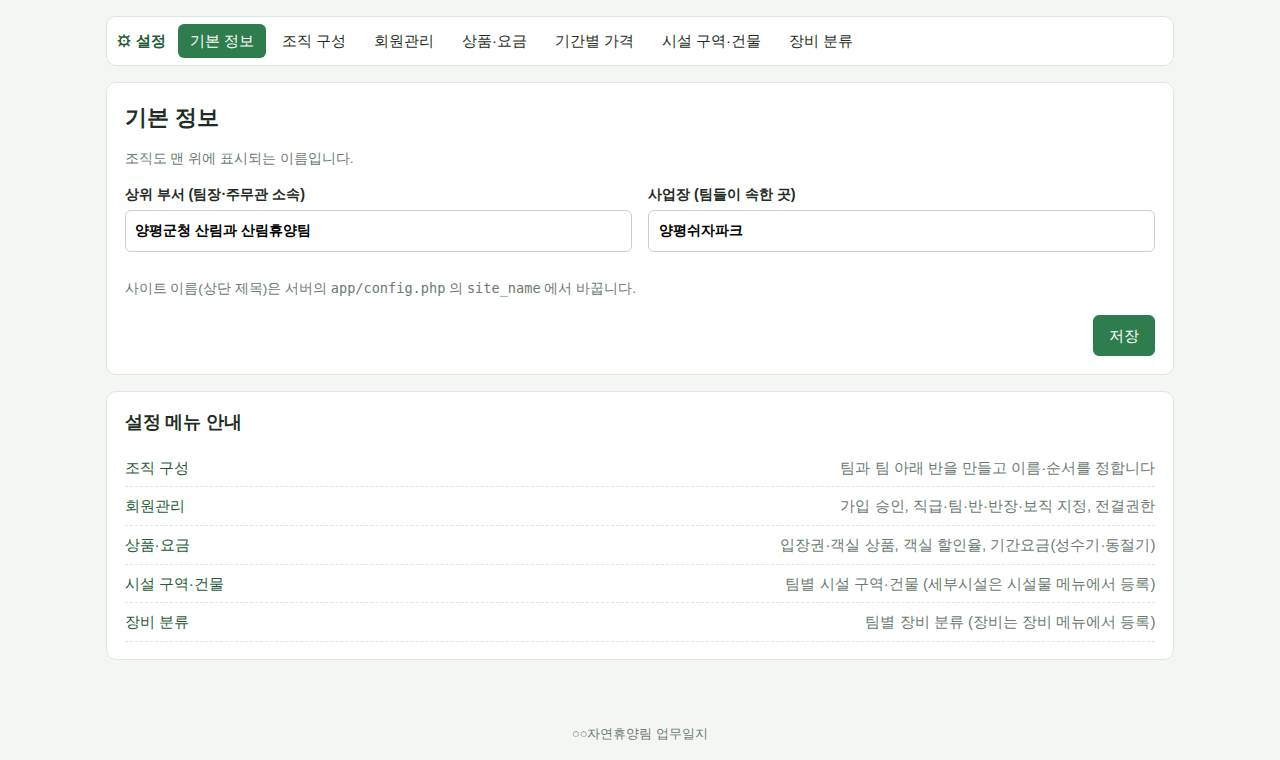
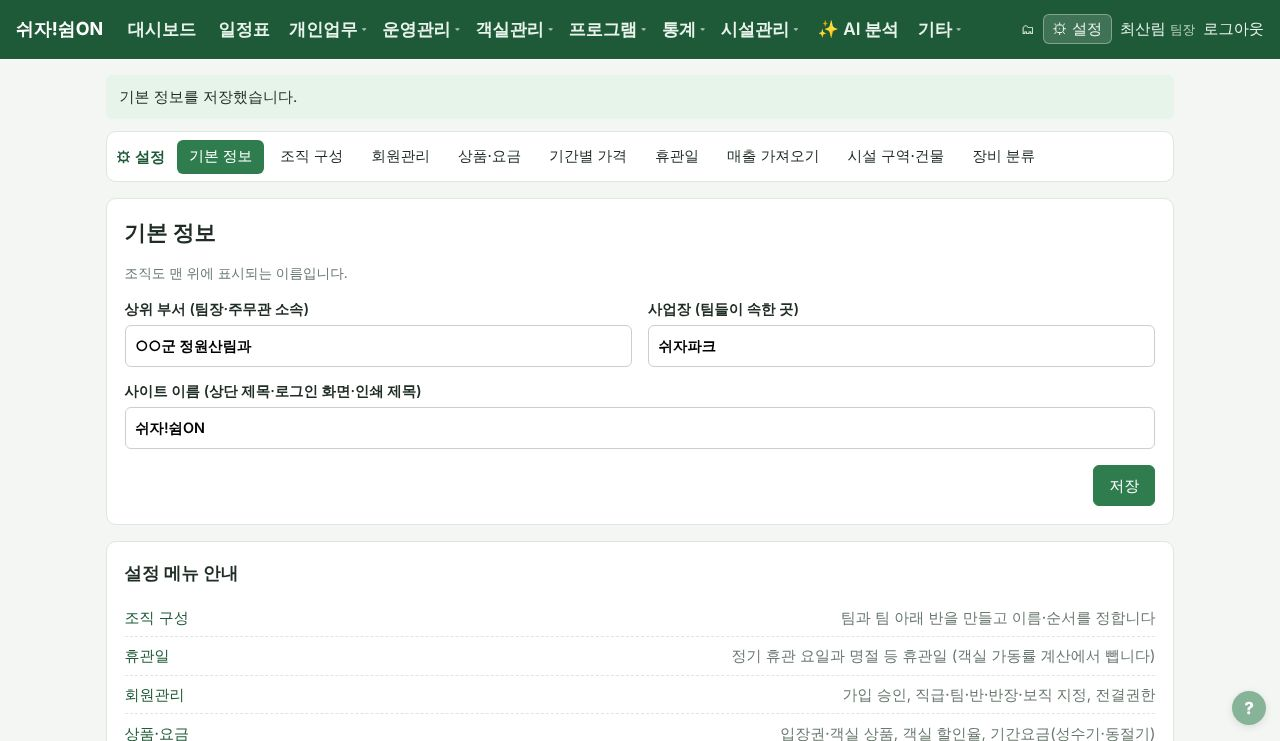
사이트 이름 「쉬자!쉼ON」, 설정 › 기본 정보에서 이름 바꾸기 [데모배포]
- settings.site_name 이 있으면 config 의 site_name 대신 사용 (체험판은 config.demo.php 이름만)
- DB_VERSION 54: site_name '쉬자!쉼ON' 기본 등록 (이미 있으면 그대로)
- 체험판 이름, 설명서·계획 문서 이름 변경, 도움말·업데이트·README·캡처

Claude-Session: https://claude.ai/code/session_01VfXskRVsxbLKKHr8d49Cfn

diff --git a/settings.php b/settings.php
@@ -25,6 +25,7 @@ if (is_post()) {
     if ($target === 'general') {
         setting_set('org_top_name', mb_substr(post('org_top_name'), 0, 100));
         setting_set('org_park_name', mb_substr(post('org_park_name'), 0, 100));
+        if (!is_demo()) setting_set('site_name', mb_substr(post('site_name'), 0, 60));
         flash('기본 정보를 저장했습니다.', 'success');
         redirect('settings.php?tab=general');
     }
@@ -111,7 +112,11 @@ if ($tab === 'general'): ?>
     <label>상위 부서 (팀장·주무관 소속)<input name="org_top_name" value="<?= e(setting('org_top_name', '')) ?>" placeholder="예: 양평군청 산림과 산림휴양팀"></label>
     <label>사업장 (팀들이 속한 곳)<input name="org_park_name" value="<?= e(setting('org_park_name', '')) ?>" placeholder="예: 양평쉬자파크"></label>
   </div>
-  <p class="muted small">사이트 이름(상단 제목)은 서버의 <code>app/config.php</code> 의 <code>site_name</code> 에서 바꿉니다.</p>
+  <?php if (is_demo()): ?>
+  <p class="muted small">사이트 이름: <b><?= e((string) config('site_name', '')) ?></b> (체험판은 바꿀 수 없습니다)</p>
+  <?php else: ?>
+  <label>사이트 이름 (상단 제목·로그인 화면·인쇄 제목)<input name="site_name" value="<?= e(setting('site_name', '')) ?>" maxlength="60" placeholder="비우면 서버 설정 파일의 이름: <?= e((string) config('site_name_file', '')) ?>"></label>
+  <?php endif ?>
   <div class="actions"><button class="btn primary">저장</button></div>
 </form>
 

diff --git a/app/help.php b/app/help.php
@@ -466,7 +466,7 @@ HTML],
 HTML],
             ['id' => 'set_general', 'title' => '기본 정보 · 조직 구성 · 시설 구역 · 장비 분류', 'keys' => ['settings', 'settings_general', 'settings_org', 'settings_facility', 'settings_equipment'], 'img' => ['set_general.jpg' => '기본 정보', 'set_org.jpg' => '조직 구성 — 팀별 시설점검·시설물 사용'], 'body' => <<<'HTML'
 <ul>
-  <li><b>기본 정보</b>: 조직도의 상위 부서·사업장 이름. <b>조직 구성</b>: 팀·반 추가·이름·순서.</li>
+  <li><b>기본 정보</b>: 조직도의 상위 부서·사업장 이름, <b>사이트 이름</b>(상단 제목·로그인 화면·인쇄 제목, 비우면 서버 설정 파일의 이름). <b>조직 구성</b>: 팀·반 추가·이름·순서.</li>
   <li>조직 구성의 팀마다 <b>시설점검·시설물</b> 체크: 끄면 그 팀이 시설관리 › 시설점검·시설물과 시설 구역·건물에서 빠집니다 (시설을 관리하지 않고 프로그램만 하는 팀 등).
     이미 작성한 점검일지와 등록한 시설은 지워지지 않고, 다시 켜면 그대로 보입니다. 새 팀은 켜진 상태로 만들어집니다. 장비 메뉴에는 영향이 없습니다.</li>
   <li><b>시설 구역·건물</b>, <b>장비 분류</b>: 팀별 분류 (세부시설·장비 등록은 각 메뉴에서 주무관 이상).</li>

diff --git a/app/changelog.php b/app/changelog.php
@@ -7,6 +7,10 @@ defined('APP_ROOT') || exit;
  *   ['date' => 'YYYY-MM-DD', 'title' => '한 줄 요약', 'items' => ['자세한 내용', ...], 'menu' => '관련 메뉴(선택)']
  */
 const CHANGELOG = [
+    ['date' => '2026-10-23', 'title' => '사이트 이름 「쉬자!쉼ON」, 설정에서 이름 바꾸기', 'menu' => '설정', 'items' => [
+        "사이트 이름을 '쉬자!쉼ON'으로 바꿨습니다 (상단 제목·로그인 화면·인쇄 제목·청소관리 앱 이름).",
+        "앞으로 이름은 설정 › 기본 정보의 '사이트 이름'에서 바꿉니다. 비우면 예전처럼 서버 설정 파일의 이름을 씁니다.",
+    ]],
     ['date' => '2026-10-22', 'title' => '🔁 AI 분석: 지난 예측 되돌아보기 (예측 vs 실제)', 'menu' => 'AI 분석', 'items' => [
         "AI 분석 화면의 '🔁 지난 예측 되돌아보기'에서 날짜(4주 전·8주 전·작년 이맘때·직접 고르기)를 고르면, 그날까지의 기록만 보고 같은 규칙으로 '그다음 4주'를 예측했을 때 실제로 맞았는지 보여 줍니다.",
         '결과는 ✅ 실제로 일어남 / 🟡 비슷한 일(같은 객실 다른 민원, 4주 뒤 석 달 안 고장 등) / ⬜ 안 일어남 으로 표시하고, 그 4주에 생겼지만 예측에 없던 일도 따로 보여 줍니다.',

diff --git a/app/migrate.php b/app/migrate.php
@@ -6,7 +6,7 @@ defined('APP_ROOT') || exit;
  * 새 버전 파일을 FTP로 덮어쓰기만 하면, 첫 접속 때 부족한 테이블/컬럼을 만든다.
  * (기존 자료는 그대로 유지)
  */
-const DB_VERSION = 53;
+const DB_VERSION = 54;
 
 function db_version(): int
 {
@@ -435,6 +435,11 @@ function db_migrate(): void
     }
 
     // 53) v52 → v53: AI 분석 결과 ai_insights (1) 단계에서 생성) — AI 분석 메뉴, 예측을 저장해 두고 실제와 비교
+
+    // 54) v53 → v54: 사이트 이름을 설정(settings.site_name)에서 바꿀 수 있게 — 새 이름 '쉬자!쉼ON' (이미 정해 둔 이름이 있으면 그대로)
+    if (db_version() < 54) {
+        $pdo->exec("INSERT IGNORE INTO settings (name, value) VALUES ('site_name', '쉬자!쉼ON')");
+    }
 
     $pdo->prepare("INSERT INTO settings (name, value) VALUES ('db_version', ?) ON DUPLICATE KEY UPDATE value = VALUES(value)")
         ->execute([(string) DB_VERSION]);

diff --git a/app/bootstrap.php b/app/bootstrap.php
@@ -137,6 +137,11 @@ if ($dbOk && db_version() < DB_VERSION) {
     }
 }
 if ($dbOk) demo_maybe_reset(); // 체험용 데모 사이트: 날짜가 바뀌면 가상 자료를 새로 만든다 (운영 사이트는 아무것도 안 함)
+// 사이트 이름: 설정 › 기본 정보에서 정한 이름이 있으면 그것을 쓴다 (없으면 config.php 의 site_name)
+//  체험판은 누구나 관리자로 들어오므로 설정 이름을 쓰지 않고 config.demo.php 의 이름만 쓴다
+$GLOBALS['CONFIG']['site_name_file'] = config('site_name', '');
+if ($dbOk && !is_demo() && ($siteName = trim((string) setting('site_name', ''))) !== '') $GLOBALS['CONFIG']['site_name'] = $siteName;
+unset($siteName);
 unset($dbOk);
 
 $https = ($_SERVER['HTTPS'] ?? '') === 'on' || ($_SERVER['HTTP_X_FORWARDED_PROTO'] ?? '') === 'https';

diff --git a/app/config.demo.php b/app/config.demo.php
@@ -10,6 +10,6 @@ if (!is_file($main)) return null;
 return [
     'demo'      => true,
     'base_url'  => '/demo',
-    'site_name' => '쉬자ON',
+    'site_name' => '쉬자!쉼ON',
     'debug'     => false,
 ] + (require $main);

diff --git a/dev/contest-data-analysis.md b/dev/contest-data-analysis.md
@@ -65,11 +65,11 @@
 - 9개월 단톡방 3,751건 중 시설 보고 약 345건 → 시설 대장에 남은 2026년 이력 1건
 - 민원 대장 처리일자 누락 72%, 전화 문의 분류 누락 61%
 - 같은 설비 반복 고장: 온수보일러 14건/8객실, 1호 관정 5회, 순환펌프 3회 연쇄
-- 쉬자ON 이후: 민원은 업무일지에서 3단계 분류로 바로 입력(분류·처리상태 필수), 설비 이력은 장비 화면에 한 줄씩 → 위 숫자를 **자동으로** 집계
+- 쉬자!쉼ON 이후: 민원은 업무일지에서 3단계 분류로 바로 입력(분류·처리상태 필수), 설비 이력은 장비 화면에 한 줄씩 → 위 숫자를 **자동으로** 집계
 
 ## 5. 적중 검증 — 실제 기록으로 '그때 예측했다면?' (2026-10-22)
 방법: 2024.3~2026.10 실제 기록(보수 대장·시설물 대장·민원 대장·만족도 조사·단톡방)에서 문제 사건 335건(같은 날 같은 분류는 1건)을 뽑아,
-기준일을 1~2주씩 옮기며 **그날 이전 기록만** 보고 쉬자ON 규칙(작년 같은 시기 ±2주에 있었음 / 최근 60일 2회 이상 / 같은 곳 1년 2회 이상)으로 예측한 뒤 실제와 비교.
+기준일을 1~2주씩 옮기며 **그날 이전 기록만** 보고 쉬자!쉼ON 규칙(작년 같은 시기 ±2주에 있었음 / 최근 60일 2회 이상 / 같은 곳 1년 2회 이상)으로 예측한 뒤 실제와 비교.
 (로컬에서만 계산, 원본은 저장소에 없음. 분류 11가지: 벌·해충, 에어컨, 온수보일러·히터봉, 난방, 관정·급수, 배수·오수, 제설·폭설, 전기·차단기, 통신·TV, 데크·구조물 파손, 청결)
 
 | 시험 | 예측 적중 | 우연히 맞을 확률(기준) | 해석 |
@@ -89,5 +89,5 @@
 **결론 (설명서에 쓸 말)**
 - 흩어진 기록으로도 '같은 설비가 또 고장 난다'는 미리 알 수 있었다 (위 사례).
 - 하지만 기록이 단톡방·엑셀·종이에 나뉘고 장소 이름이 제각각이라, 종류만 맞히는 예측은 우연과 큰 차이가 없었다 → **예측의 정확도는 AI보다 '기록을 한곳에, 같은 이름으로' 남기는 데 달려 있다.**
-- 쉬자ON은 민원(3단계 분류·장소 선택)·설비 이력(장비별)·시설점검(시설 선택)을 같은 이름으로 쌓으므로 쓸수록 예측이 정확해진다.
+- 쉬자!쉼ON은 민원(3단계 분류·장소 선택)·설비 이력(장비별)·시설점검(시설 선택)을 같은 이름으로 쌓으므로 쓸수록 예측이 정확해진다.
   적중률 숫자를 앞세우기보다 '대표 사례 + 기록이 쌓이면 좋아지는 구조'로 설명하는 것이 정직하다.

diff --git a/dev/contest-plan.md b/dev/contest-plan.md
@@ -13,7 +13,7 @@
 - 강점: 2026-09-22 첫 커밋 이후 약 한 달간 AI(Claude)와 대화로 만든 실사용 시스템 (커밋 140여 회) — 바이브 코딩 사례 그 자체
 
 ## 1. 이름 (제안 — 확인 필요)
-**「쉬자ON」 — 휴양시설 현장업무 원스톱 플랫폼**
+**「쉬자!쉼ON」 — 휴양시설 현장업무 원스톱 플랫폼**
 - 한 줄: *종이·엑셀·단톡방에 흩어진 현장업무를 한곳에 기록하고, 쌓인 데이터로 AI가 민원·고장을 미리 알려준다.*
 - 다른 후보: 「숲 운영노트 AI」, 「쉬자파크 스마트운영」
 
@@ -95,7 +95,7 @@
 | 10/29 | 최종 점검 → 제출 (30일 예비) |
 
 ## 9. 확정 사항 (2026-10-22 사용자 답변)
-1. 이름: **「쉬자ON」**
+1. 이름: **「쉬자!쉼ON」**
 2. 데모 사이트: 같은 호스팅의 **`/demo` 폴더** (별도 DB 필요 — 호스팅에서 DB 추가 가능 여부는 사용자 확인 중)
 3. Claude API 키: **개인 발급** (서버 config/설정에만 넣음, 채팅·코드 금지)
 4. 과거 민원·수리 기록: 사용자가 **따로 넘겨줄 예정** (자세한 자료는 아님)
@@ -121,7 +121,7 @@
 ## 11. 다음 버전(V2) 방향 — 스마트 체크인 (사용자 제안 2026-10-22, 검토 의견 포함)
 > **개념 기획만 한다. 이번에는 개발하지 않는다.** 과제설명서의 '향후 계획'(9장)에 넣을 내용이다.
 
-목표: 입실부터 퇴실까지 **전화·대면 없이** 처리하고, 그 과정에서 생기는 기록(입퇴실·요청·고장·만족도)이 쉬자ON 에 자동으로 쌓이게.
+목표: 입실부터 퇴실까지 **전화·대면 없이** 처리하고, 그 과정에서 생기는 기록(입퇴실·요청·고장·만족도)이 쉬자!쉼ON 에 자동으로 쌓이게.
 
 | 사용자 제안 | 검토 | 다듬은 방향 |
 |---|---|---|

diff --git a/dev/demo-setup.md b/dev/demo-setup.md
@@ -5,7 +5,7 @@
 
 ## 어떻게 동작하나
 - 체험판 폴더에는 `app/config.php` 가 없고, `app/config.demo.php` 가 운영 사이트의 `/www/app/config.php` 를 읽어
-  DB 접속 정보만 빌려 쓴다 (`'demo' => true`, `base_url` `/demo`, 사이트 이름 「쉬자ON」).
+  DB 접속 정보만 빌려 쓴다 (`'demo' => true`, `base_url` `/demo`, 사이트 이름 「쉬자!쉼ON」).
 - 같은 DB 안에서 표 이름 앞에 `demo_` 가 붙은 별도 표(`demo_users`, `demo_journals` …)만 쓴다 (`app/demo_db.php`).
   - 모든 SQL 이 표 이름을 `demo_` 표로 바꾼 뒤 실행된다. 운영 표 이름이 남은 채로 표를 만들거나 지우려 하면 실행하지 않는다.
   - 로컬 검증: 운영·체험판을 같은 DB 로 띄워 체험판 전체 화면 열기·저장·초기화 후 운영 표 50개의 CHECKSUM 이 그대로임을 확인 (2026-10-22).

diff --git a/README.md b/README.md
@@ -118,7 +118,7 @@
 
 ### 2-5. 설정 파일
 1. `app/config.sample.php` 를 복사해 **`app/config.php`** 로 저장
-2. DB 정보, 사이트 이름, `base_url` 을 입력
+2. DB 정보, 사이트 이름, `base_url` 을 입력 (사이트 이름은 나중에 설정 › 기본 정보의 '사이트 이름'으로 바꿀 수 있고, 그쪽이 우선 — `settings.site_name`)
 3. 상품·가격·기간요금, 시설물, 장비는 설치 후 각 관리 화면에서 등록합니다 (config.php에서 바꿀 것은 거의 없음)
 
 ### 2-6. 설치 실행
